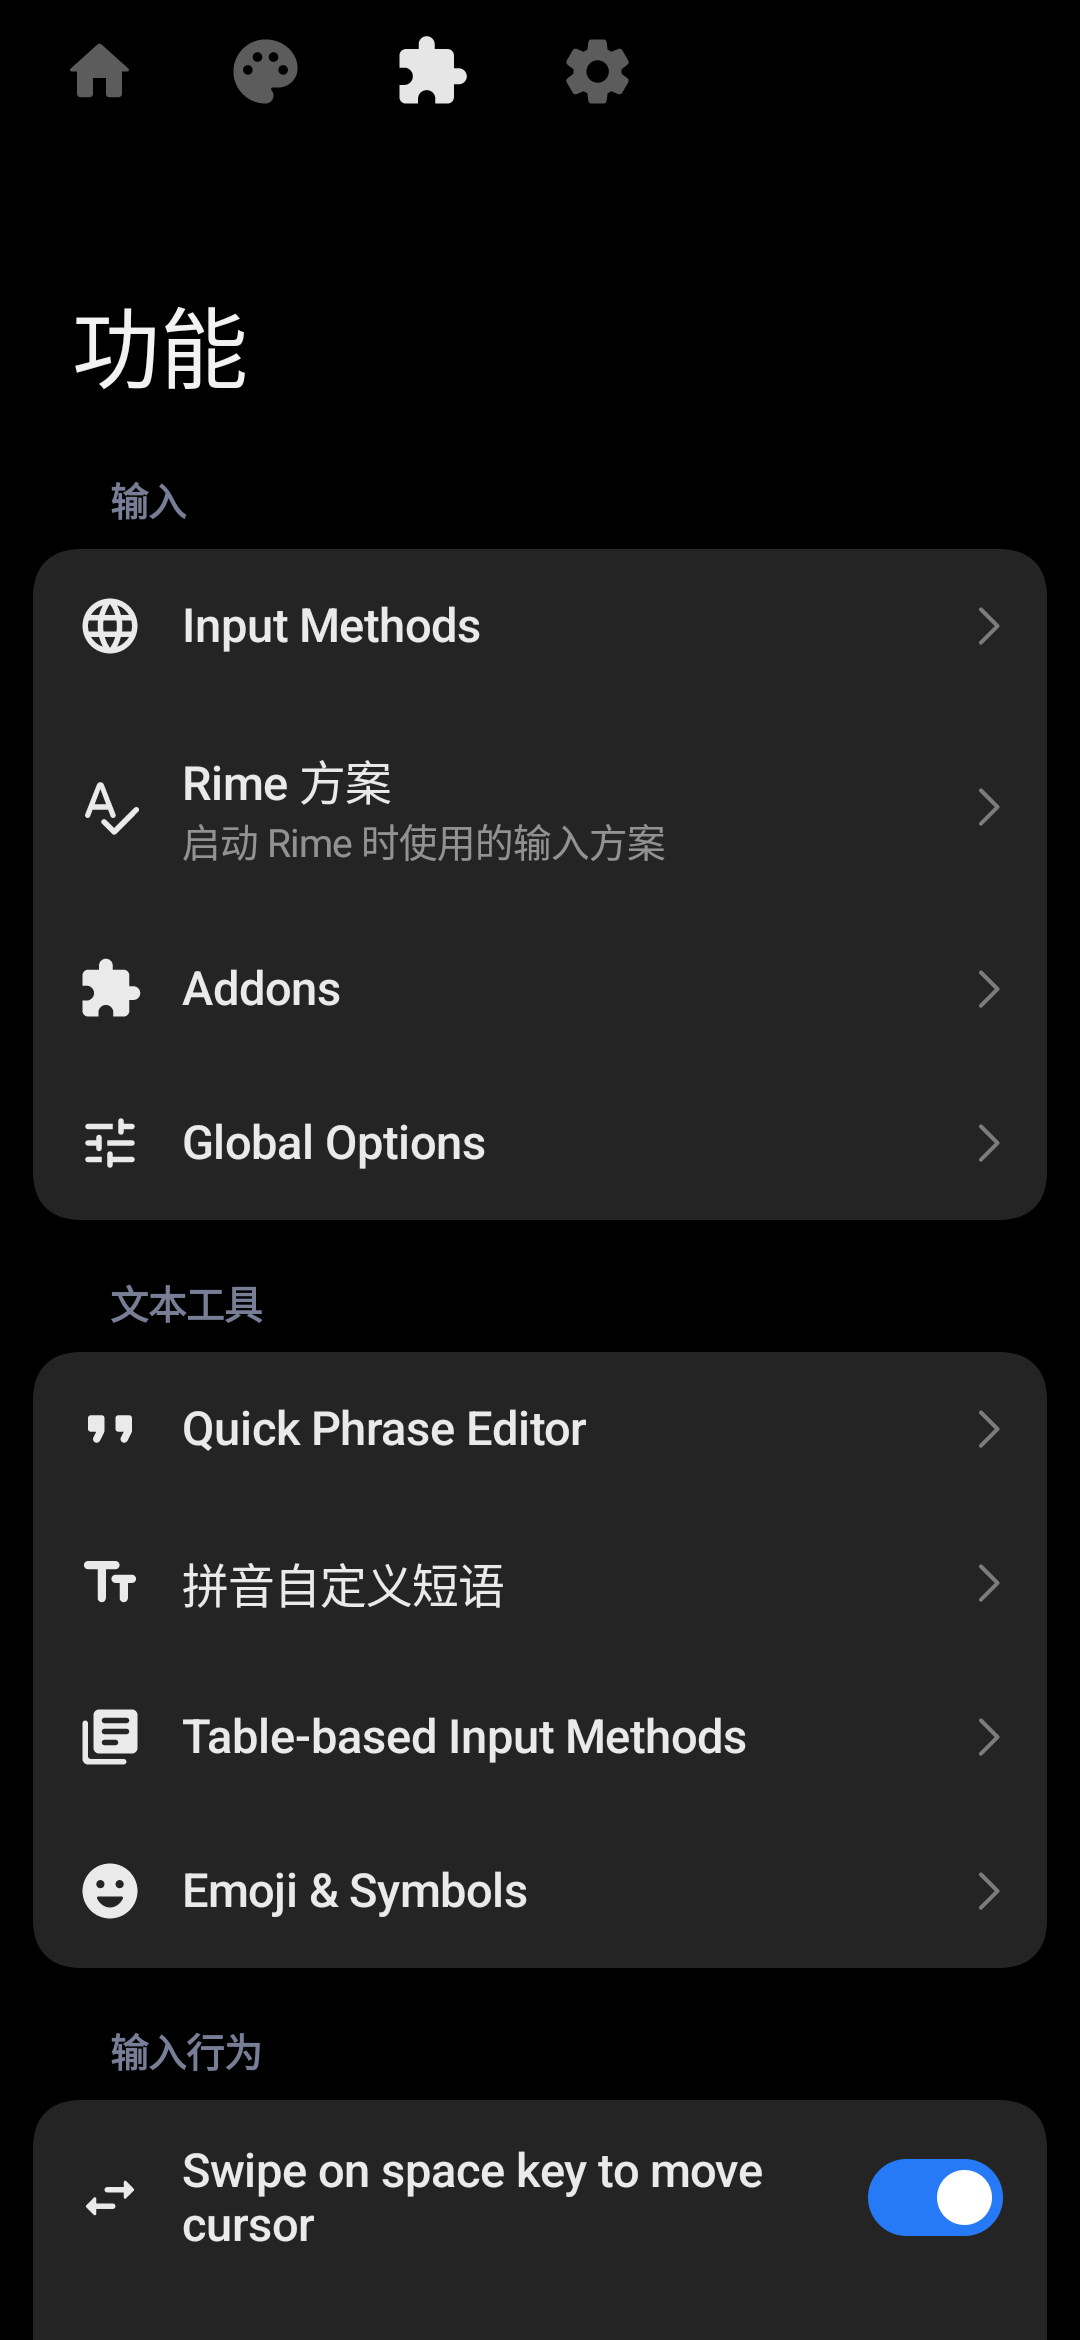
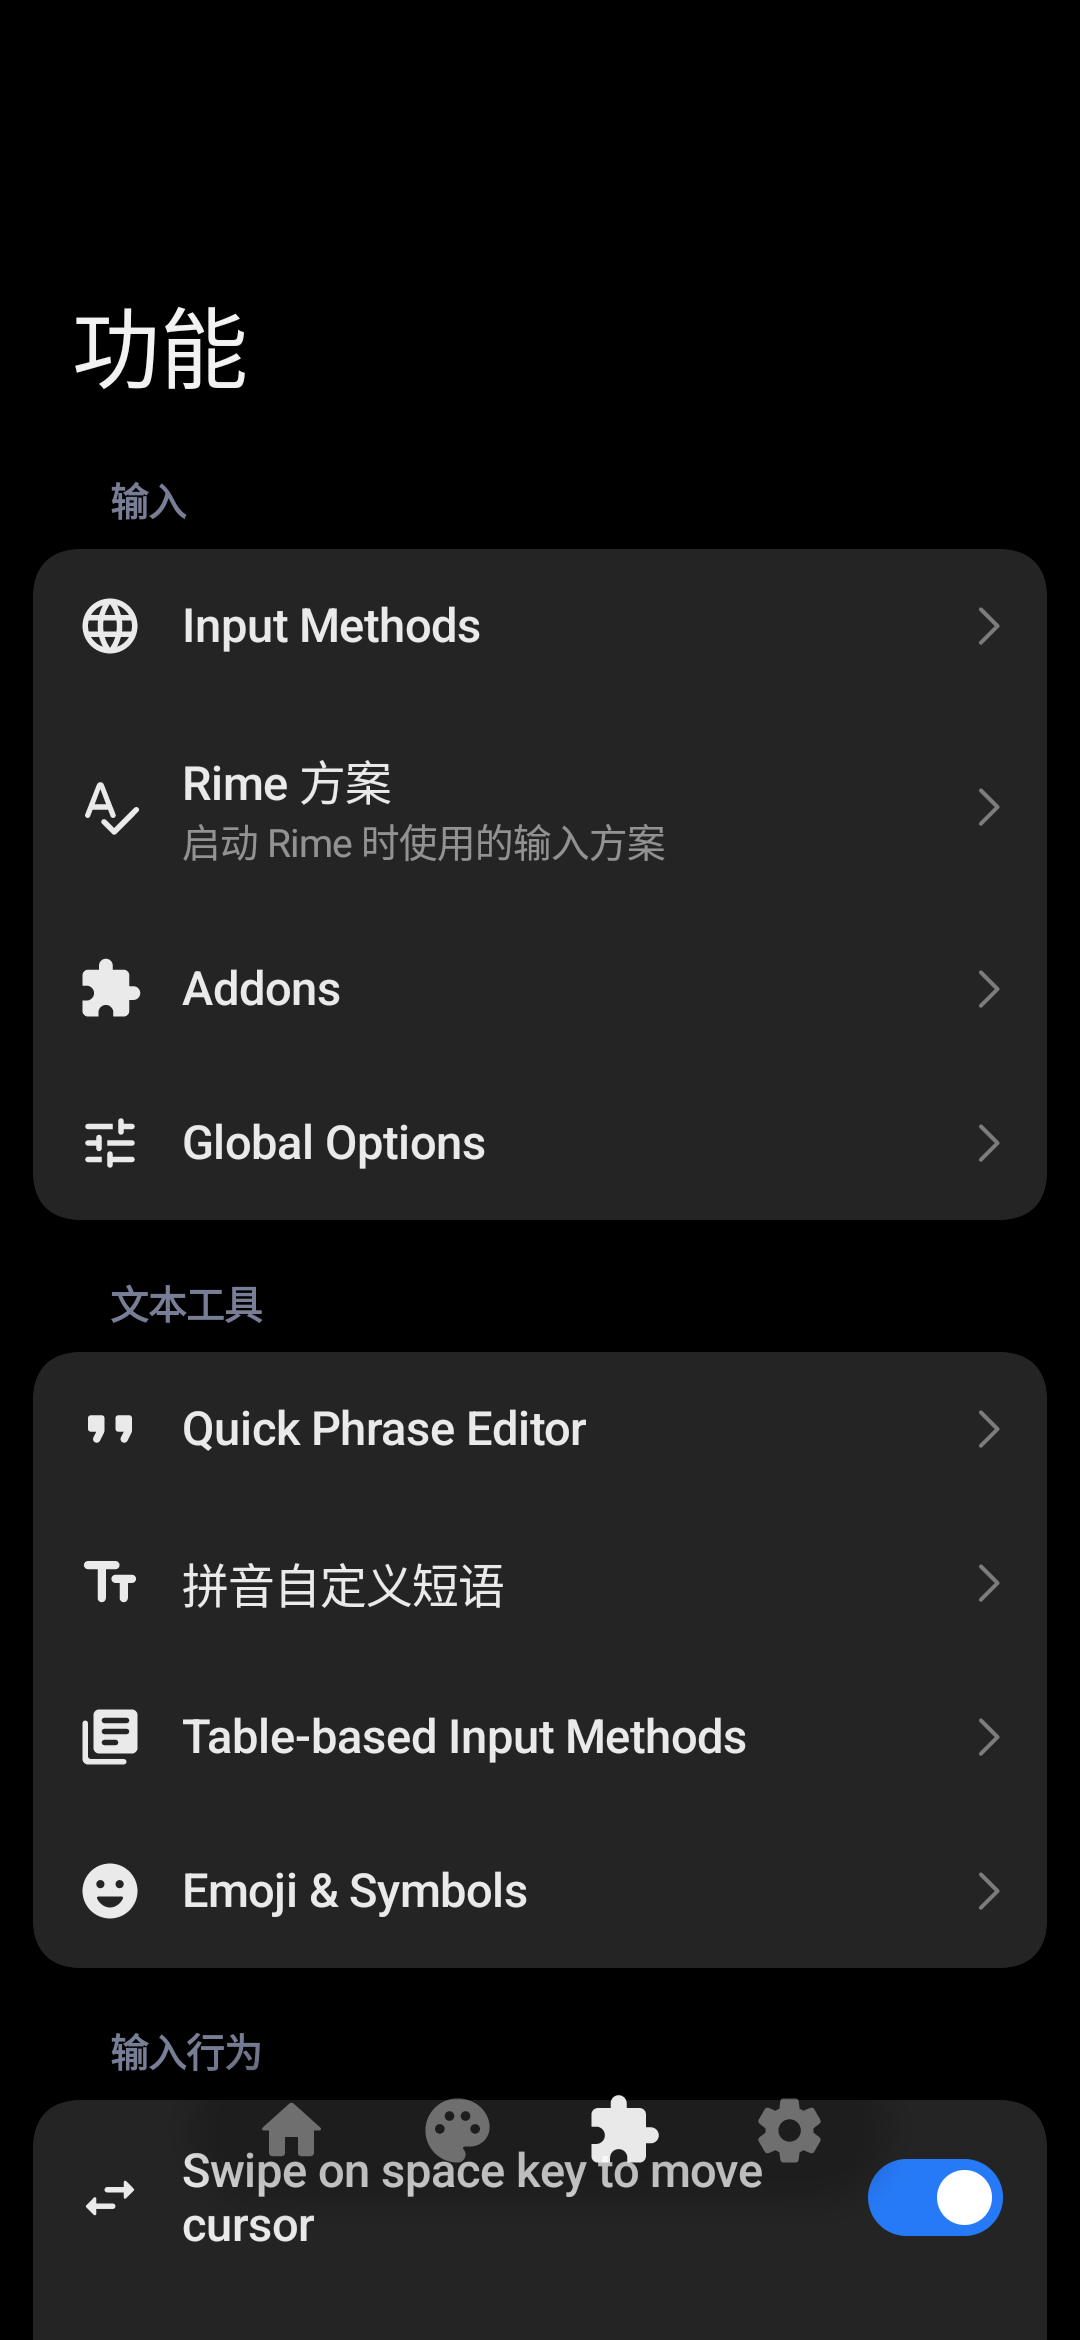
stage-12 fix: place the floating bar above the content via a wrapper Box
miuix 0.9.4's FloatingNavigationBar builds Column(Modifier.fillMaxWidth()) and ignores the modifier
it is given, so passing Modifier.align lost the alignment. Wrapping it keeps the bar at the bottom
and lets it draw over the pages, which is the reference behaviour.

diff --git a/app/src/main/java/org/fcitx/fcitx5/android/ui/compose/FcitxApp.kt b/app/src/main/java/org/fcitx/fcitx5/android/ui/compose/FcitxApp.kt
@@ -108,14 +108,6 @@ fun FcitxApp(
 
         Box(modifier = Modifier.fillMaxSize()) {
             Scaffold(
-                bottomBar = {
-                    BottomBar(
-                        selected = pagerState.currentPage,
-                        onSelect = { index ->
-                            scope.launch { pagerState.animateScrollToPage(index) }
-                        },
-                    )
-                },
                 contentWindowInsets = WindowInsets.systemBars
                     .add(WindowInsets.displayCutout)
                     .only(WindowInsetsSides.Horizontal),
@@ -135,6 +127,18 @@ fun FcitxApp(
                         else -> SettingsPage(bottomInnerPadding, openRoute)
                     }
                 }
+            }
+
+            // Drawn after the content so the floating bar sits above the pages (the reference has
+            // content scrolling underneath it). miuix's FloatingNavigationBar ignores a modifier
+            // passed to it, so the alignment has to live on a wrapper.
+            Box(modifier = Modifier.align(Alignment.BottomCenter)) {
+                BottomBar(
+                    selected = pagerState.currentPage,
+                    onSelect = { index ->
+                        scope.launch { pagerState.animateScrollToPage(index) }
+                    },
+                )
             }
 
             AnimatedVisibility(
